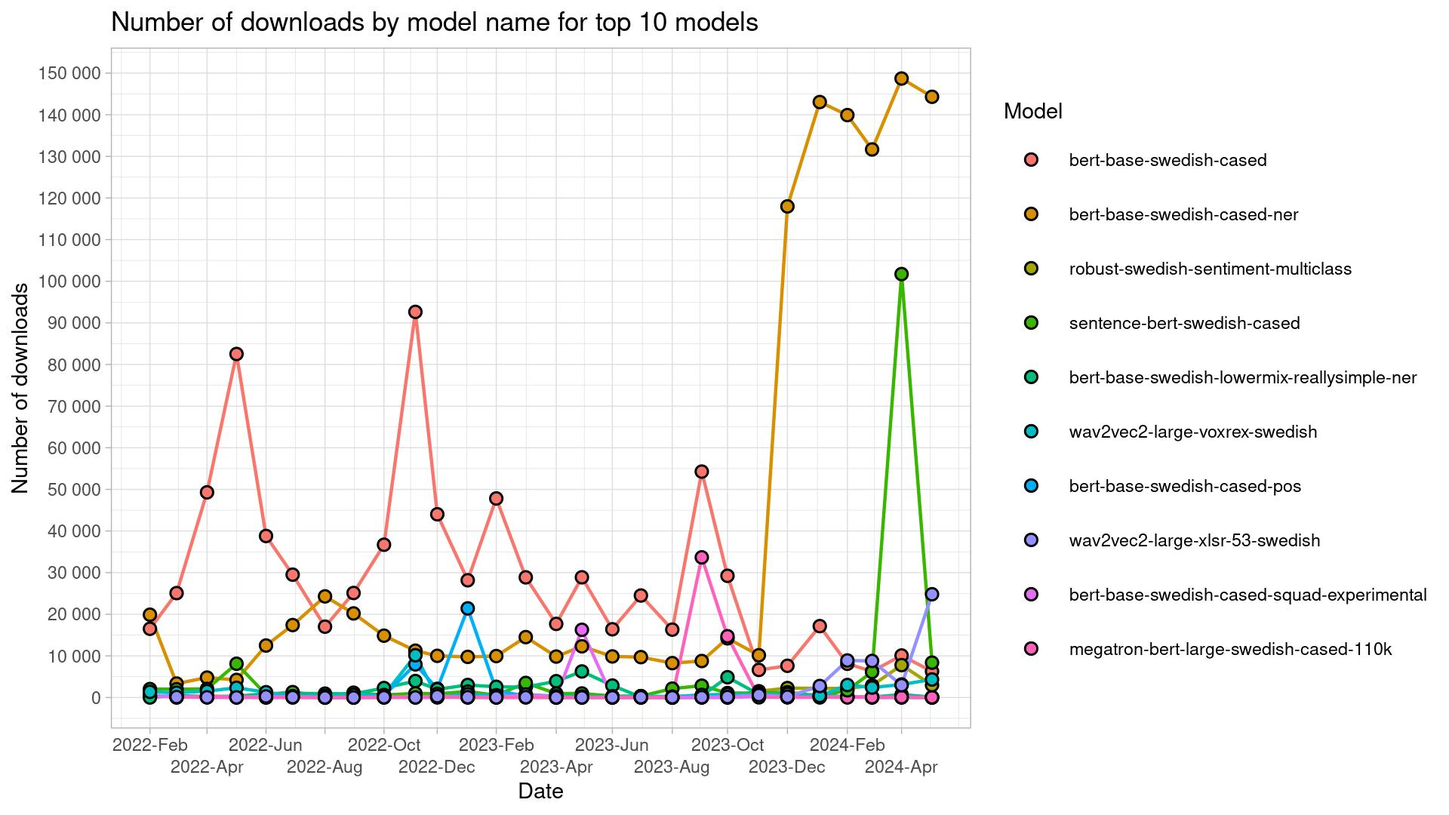
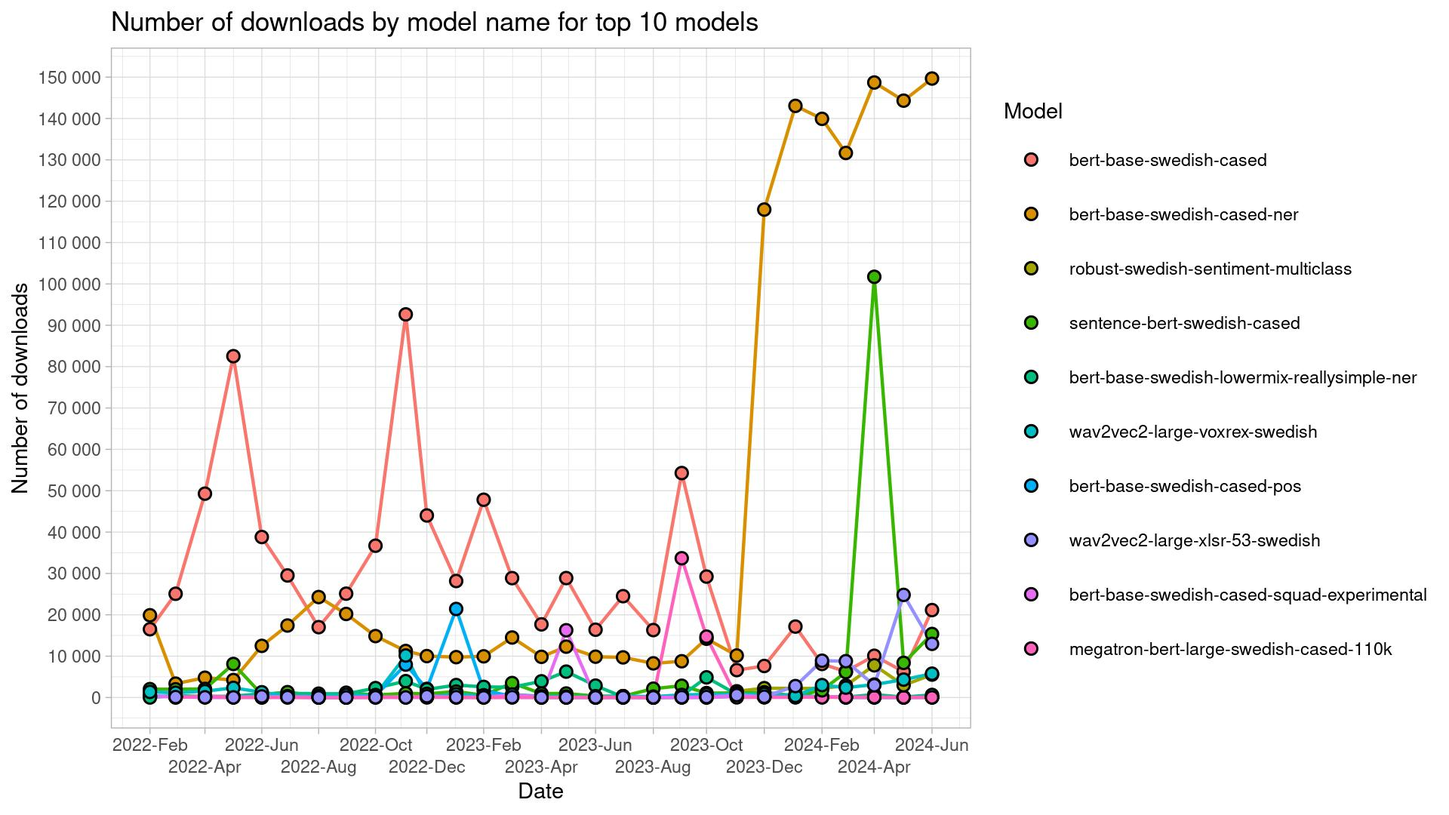
June 2024 update

diff --git a/README.md b/README.md
@@ -12,61 +12,61 @@ Script is run monthly, and a monthly `csv`-file outputted to `/data` folder.
 
 ## Table of downloads
 
-|model_name                                           | 2022-02| 2022-03| 2022-04| 2022-05| 2022-06| 2022-07| 2022-08| 2022-09| 2022-10| 2022-11| 2022-12| 2023-01| 2023-02| 2023-03| 2023-04| 2023-05| 2023-06| 2023-07| 2023-08| 2023-09| 2023-10| 2023-11| 2023-12| 2024-01| 2024-02| 2024-03| 2024-04| 2024-05|
-|:----------------------------------------------------|-------:|-------:|-------:|-------:|-------:|-------:|-------:|-------:|-------:|-------:|-------:|-------:|-------:|-------:|-------:|-------:|-------:|-------:|-------:|-------:|-------:|-------:|-------:|-------:|-------:|-------:|-------:|-------:|
-|albert-base-swedish-cased-alpha                      |     126|     252|      61|      52|      52|      28|      31|      17|      30|      64|     229|      37|      32|      75|      13|      17|      24|      39|      14|      18|       4|      71|      75|      74|      20|      27|     100|     220|
-|asr-voxrex-bart-base                                 |      11|      10|      19|       5|       2|       1|       1|       3|       2|       3|       2|       4|       9|      15|       7|       2|       4|       7|       4|       3|       8|       2|       5|       1|       6|       8|       5|       8|
-|bart-base-swedish-cased                              |      74|      12|     116|     126|      32|      18|      41|      56|      81|       6|       9|      18|      41|      70|     110|      60|      50|      40|      23|       9|      63|      44|      42|      11|     129|      14|     119|      14|
-|bert-base-swedish-cased                              |   16509|   25080|   49286|   82528|   38802|   29511|   17012|   25106|   36702|   92636|   44016|   28164|   47819|   28864|   17684|   28878|   16390|   24502|   16303|   54271|   29238|    6625|    7620|   17149|    8106|    6290|   10094|    6253|
-|bert-base-swedish-cased-alpha                        |      22|      24|    1362|      34|       8|      73|       7|      14|      14|      14|      10|     160|     151|       6|       9|       5|       6|       9|       2|      12|       3|       4|       5|       3|       5|      11|      15|       2|
-|bert-base-swedish-cased-ner                          |   19891|    3353|    4783|    4221|   12487|   17406|   24290|   20200|   14852|   11251|   10014|    9759|    9957|   14508|    9834|   12293|    9868|    9701|    8258|    8767|   14214|   10149|  117977|  143050|  139912|  131659|  148695|  144309|
-|bert-base-swedish-cased-neriob                       |       8|      87|      34|      25|       4|      44|       2|       1|      62|      10|       5|      31|       5|       8|       6|       6|       9|      18|       2|       1|       0|      19|       8|       5|       5|      11|      15|       3|
-|bert-base-swedish-cased-new                          |      NA|       0|     377|    1069|     786|      10|     238|      69|     225|     168|     163|      46|      44|     352|     303|      33|      52|      69|      73|     211|      96|      84|      30|      34|       5|      53|      59|     279|
-|bert-base-swedish-cased-pos                          |     428|     179|     107|     104|     168|     310|       2|       2|     467|    7959|    2083|   21410|    1713|     300|      15|      28|      58|      64|       9|      75|      28|     312|     159|     166|     239|      33|      20|      12|
-|bert-base-swedish-cased-reallysimple-ner             |       6|      32|       9|       7|      11|      10|       3|       8|      10|      17|       4|      16|     159|     401|     211|     334|     327|     326|      74|     152|     341|     304|     274|       3|       7|      14|      14|       4|
-|bert-base-swedish-cased-squad-experimental           |     323|     136|      45|      23|      40|     182|      25|      27|     101|      10|      22|      62|      56|     643|     130|   16262|      29|      29|       4|      16|      10|     280|      64|      34|     275|      30|      44|       4|
-|bert-base-swedish-lowermix-reallysimple-ner          |       6|     453|     248|     312|     901|     991|     930|     871|    2274|    3958|    1963|    3010|    2567|    2485|    3919|    6258|    2875|     121|      53|     417|    4874|     769|     327|     713|      81|     111|     696|     104|
-|electra-base-swedish-cased-discriminator             |     317|     143|     149|    1404|       2|       3|       3|       3|       2|       5|       0|       7|       2|       0|       6|       7|       4|       8|       0|       1|       0|       4|       0|       1|       4|       5|      15|       2|
-|electra-base-swedish-cased-generator                 |       9|      15|      26|      31|       2|      19|       1|      18|       1|       9|       4|      10|       4|      14|      88|      78|     107|      72|       3|      15|      39|      12|       7|      11|       8|      52|      53|       6|
-|electra-small-swedish-cased-discriminator            |      12|       5|    1467|    3804|      10|       5|       2|       2|       2|      10|       8|      12|     153|       1|       9|       2|       6|       4|      18|       6|       0|       3|       0|       7|      11|      13|       9|       4|
-|electra-small-swedish-cased-generator                |      NA|       3|     138|      14|       4|      19|       2|       3|       4|       8|       6|      11|       4|       3|       6|      14|       4|       9|       0|       1|       0|     131|       5|       3|       5|       9|      13|       2|
-|emotional-classification                             |      NA|      NA|      NA|      NA|      NA|      NA|      NA|      NA|      NA|      NA|      NA|      NA|      NA|      NA|      NA|      NA|      NA|     155|       3|       1|       2|      27|       9|       0|       0|      13|      63|       1|
-|megatron-bert-base-swedish-cased-125k                |      NA|       0|     353|       0|       2|       8|       1|       3|     131|      55|     158|      27|      21|      19|       7|       6|      10|      10|       4|       2|       0|       4|      29|      22|       5|       3|       4|      67|
-|megatron-bert-base-swedish-cased-600k                |      NA|      10|     288|      87|      30|      16|      16|      17|     111|      12|      20|     194|      27|      49|      13|      15|     100|      22|       2|       2|      15|      12|      41|      21|       5|      67|       6|      71|
-|megatron-bert-large-swedish-cased-110k               |      NA|       0|     346|      77|       4|       4|       0|       1|       1|     171|     160|      15|       8|      23|       4|       2|       4|       3|       0|   33671|   14716|      38|      63|     106|      29|      70|      79|      43|
-|megatron-bert-large-swedish-cased-165-zero-shot      |      NA|      NA|      NA|      NA|      NA|      NA|      NA|      NA|      NA|      NA|       5|      55|      26|      63|      20|     621|      69|     135|      58|     170|      48|     243|     123|      40|     127|     147|      56|     123|
-|megatron-bert-large-swedish-cased-165k               |      NA|      NA|       9|      13|      40|      19|      53|       2|      18|     336|     327|      21|      34|      67|      43|      56|      36|      52|      13|      86|      37|      12|     343|     153|      24|      18|      24|      15|
-|megatron.bert-base.bpe-32k-no_pretok.25k-steps       |      NA|      NA|      NA|      NA|      NA|      NA|      NA|      NA|      NA|      NA|      NA|      NA|      NA|      NA|      NA|      NA|      NA|      NA|      NA|      NA|      NA|      NA|      NA|      NA|      NA|      NA|      NA|       3|
-|megatron.bert-base.bpe-64k-no_pretok.25k-steps       |      NA|      NA|      NA|      NA|      NA|      NA|      NA|      NA|      NA|      NA|      NA|      NA|      NA|      NA|      NA|      NA|      NA|      NA|      NA|      NA|      NA|      NA|      NA|      NA|      NA|      NA|      NA|       3|
-|megatron.bert-base.spe-bpe-32k-no_pretok.25k-steps   |      NA|      NA|      NA|      NA|      NA|      NA|      NA|      NA|      NA|      NA|      NA|      NA|      NA|      NA|      NA|      NA|      NA|      NA|      NA|      NA|      NA|      NA|      NA|      NA|      NA|      NA|      NA|       3|
-|megatron.bert-base.spe-bpe-32k-pretok.25k-steps      |      NA|      NA|      NA|      NA|      NA|      NA|      NA|      NA|      NA|      NA|      NA|      NA|      NA|      NA|      NA|      NA|      NA|      NA|      NA|      NA|      NA|      NA|      NA|      NA|      NA|      NA|      NA|       3|
-|megatron.bert-base.spe-bpe-64k-no_pretok.25k-steps   |      NA|      NA|      NA|      NA|      NA|      NA|      NA|      NA|      NA|      NA|      NA|      NA|      NA|      NA|      NA|      NA|      NA|      NA|      NA|      NA|      NA|      NA|      NA|      NA|      NA|      NA|      NA|       3|
-|megatron.bert-base.spe-bpe-64k-pretok.25k-steps      |      NA|      NA|      NA|      NA|      NA|      NA|      NA|      NA|      NA|      NA|      NA|      NA|      NA|      NA|      NA|      NA|      NA|      NA|      NA|      NA|      NA|      NA|      NA|      NA|      NA|      NA|      NA|       3|
-|megatron.bert-base.unigram-32k-no_pretok.25k-steps   |      NA|      NA|      NA|      NA|      NA|      NA|      NA|      NA|      NA|      NA|      NA|      NA|      NA|      NA|      NA|      NA|      NA|      NA|      NA|      NA|      NA|      NA|      NA|      NA|      NA|      NA|      NA|       3|
-|megatron.bert-base.unigram-32k-pretok.25k-steps      |      NA|      NA|      NA|      NA|      NA|      NA|      NA|      NA|      NA|      NA|      NA|      NA|      NA|      NA|      NA|      NA|      NA|      NA|      NA|      NA|      NA|      NA|      NA|      NA|      NA|      NA|      NA|       3|
-|megatron.bert-base.unigram-64k-no_pretok.25k-steps   |      NA|      NA|      NA|      NA|      NA|      NA|      NA|      NA|      NA|      NA|      NA|      NA|      NA|      NA|      NA|      NA|      NA|      NA|      NA|      NA|      NA|      NA|      NA|      NA|      NA|      NA|      NA|       3|
-|megatron.bert-base.unigram-64k-pretok.25k-steps      |      NA|      NA|      NA|      NA|      NA|      NA|      NA|      NA|      NA|      NA|      NA|      NA|      NA|      NA|      NA|      NA|      NA|      NA|      NA|      NA|      NA|      NA|      NA|      NA|      NA|      NA|      NA|       3|
-|megatron.bert-base.wordpiece-32k-no_pretok.25k-steps |      NA|      NA|      NA|      NA|      NA|      NA|      NA|      NA|      NA|      NA|      NA|      NA|      NA|      NA|      NA|      NA|      NA|      NA|      NA|      NA|      NA|      NA|      NA|      NA|      NA|      NA|      NA|       3|
-|megatron.bert-base.wordpiece-32k-pretok.25k-steps    |      NA|      NA|      NA|      NA|      NA|      NA|      NA|      NA|      NA|      NA|      NA|      NA|      NA|      NA|      NA|      NA|      NA|      NA|      NA|      NA|      NA|      NA|      NA|      NA|      NA|      NA|      NA|       9|
-|megatron.bert-base.wordpiece-64k-no_pretok.25k-steps |      NA|      NA|      NA|      NA|      NA|      NA|      NA|      NA|      NA|      NA|      NA|      NA|      NA|      NA|      NA|      NA|      NA|      NA|      NA|      NA|      NA|      NA|      NA|      NA|      NA|      NA|      NA|       3|
-|megatron.bert-base.wordpiece-64k-pretok.25k-steps    |      NA|      NA|      NA|      NA|      NA|      NA|      NA|      NA|      NA|      NA|      NA|      NA|      NA|      NA|      NA|      NA|      NA|      NA|      NA|      NA|      NA|      NA|      NA|      NA|      NA|      NA|      NA|       3|
-|megatron.bert-large.bpe-64k-no_pretok.25k-steps      |      NA|      NA|      NA|      NA|      NA|      NA|      NA|      NA|      NA|      NA|      NA|      NA|      NA|      NA|      NA|      NA|      NA|      NA|      NA|      NA|      NA|      NA|      NA|      NA|      NA|      NA|      NA|       3|
-|megatron.bert-large.spe-bpe-32k-pretok.25k-steps     |      NA|      NA|      NA|      NA|      NA|      NA|      NA|      NA|      NA|      NA|      NA|      NA|      NA|      NA|      NA|      NA|      NA|      NA|      NA|      NA|      NA|      NA|      NA|      NA|      NA|      NA|      NA|       3|
-|megatron.bert-large.unigram-32k-pretok.25k-steps     |      NA|      NA|      NA|      NA|      NA|      NA|      NA|      NA|      NA|      NA|      NA|      NA|      NA|      NA|      NA|      NA|      NA|      NA|      NA|      NA|      NA|      NA|      NA|      NA|      NA|      NA|      NA|       3|
-|megatron.bert-large.unigram-64k-pretok.25k-steps     |      NA|      NA|      NA|      NA|      NA|      NA|      NA|      NA|      NA|      NA|      NA|      NA|      NA|      NA|      NA|      NA|      NA|      NA|      NA|      NA|      NA|      NA|      NA|      NA|      NA|      NA|      NA|       3|
-|megatron.bert-large.unigram-64k-pretok.500k-steps    |      NA|      NA|      NA|      NA|      NA|      NA|      NA|      NA|      NA|      NA|      NA|      NA|      NA|      NA|      NA|      NA|      NA|      NA|      NA|      NA|      NA|      NA|      NA|      NA|      NA|     310|      11|       1|
-|megatron.bert-large.wordpiece-32k-pretok.25k-steps   |      NA|      NA|      NA|      NA|      NA|      NA|      NA|      NA|      NA|      NA|      NA|      NA|      NA|      NA|      NA|      NA|      NA|      NA|      NA|      NA|      NA|      NA|      NA|      NA|      NA|      NA|      NA|       3|
-|megatron.bert-large.wordpiece-64k-pretok.25k-steps   |      NA|      NA|      NA|      NA|      NA|      NA|      NA|      NA|      NA|      NA|      NA|      NA|      NA|      NA|      NA|      NA|      NA|      NA|      NA|      NA|      NA|      NA|      NA|      NA|      NA|      NA|      NA|       9|
-|piper-tts-nst-swedish                                |      NA|      NA|      NA|      NA|      NA|      NA|      NA|      NA|      NA|      NA|      NA|      NA|      NA|      NA|      NA|       1|       8|       3|       0|       0|       0|       1|       0|       0|       0|       3|       7|      11|
-|roberta-base-swedish-cased                           |       7|       7|     471|       8|      78|       5|      67|       2|       0|       5|       5|      37|     150|       3|       6|     204|      10|       9|       1|       2|       2|       2|       3|       3|      30|      15|       9|       3|
-|robust-swedish-sentiment-multiclass                  |      NA|      NA|      NA|      NA|      NA|      NA|      NA|      NA|      NA|      NA|      NA|      NA|      NA|      NA|      NA|      NA|      12|     296|       8|      58|     119|    1505|    2263|    2206|    2178|    2895|    7783|    2968|
-|sentence-bert-swedish-cased                          |    2033|    1988|    2079|    8110|     721|    1299|     304|    1157|     597|    1008|     887|    1441|     546|    3499|     955|     970|     327|     328|    2135|    2841|    1071|    1067|    1258|     383|    1733|    6143|  101722|    8376|
-|swedish-spacy-pipeline                               |      65|      22|       5|       2|       5|       9|       1|       2|       0|       1|       3|       4|       6|      90|       3|       1|       0|       1|       3|       9|       5|       5|       5|       3|      56|       5|       4|       2|
-|wav2vec2-base-voxpopuli-sv-swedish                   |      NA|      21|      19|       7|       1|      NA|       1|       5|      99|       6|       2|      13|      57|      12|      56|       4|      26|       9|       0|       1|       7|       4|       2|     113|       5|       6|      12|       4|
-|wav2vec2-large-voxpopuli-sv-swedish                  |      58|      32|      73|      57|      24|       5|       5|      11|      59|      15|       7|      23|       9|      10|      13|      10|       7|      14|       4|       1|       5|      26|       2|       3|      12|     117|      14|      13|
-|wav2vec2-large-voxrex                                |     780|     609|     996|      57|     102|      55|      13|      34|      74|       4|       0|      56|      17|      11|       8|      17|       4|      15|       2|       1|      13|       6|       3|       1|      12|      10|      10|      20|
-|wav2vec2-large-voxrex-swedish                        |    1356|    1151|    1534|    2331|    1277|     334|     361|     611|     531|   10157|     146|     770|     411|     732|     290|     225|      65|     330|     217|     624|     752|     769|     829|     392|    3000|    2389|    3129|    4330|
-|wav2vec2-large-xlsr-53-swedish                       |      NA|     112|      55|      32|     259|      91|      19|       9|      61|      26|     307|      71|      32|      76|      26|      31|      45|      65|      50|      77|     126|     586|     188|    2766|    8897|    8785|    2962|   24811|
-|whisper-large-rixvox                                 |      NA|      NA|      NA|      NA|      NA|      NA|      NA|      NA|      NA|      NA|      NA|      NA|      NA|     113|      56|       8|       9|      12|       9|       6|       0|      16|       0|       2|      19|      38|      18|      12|
-|whisper-small-rixvox                                 |      NA|      NA|      NA|      NA|      NA|      NA|      NA|      NA|      NA|      NA|      NA|      NA|      NA|       3|       1|       6|       2|       7|       0|       0|       0|       1|       0|       0|       0|      13|       2|       1|
-|whisper-tiny-rixvox                                  |      NA|      NA|      NA|      NA|      NA|      NA|      NA|      NA|      NA|      NA|      NA|      NA|      NA|       9|       1|       5|       4|       7|       3|       0|       0|       1|       0|       0|       2|      12|       6|       1|
+|model_name                                           | 2022-02| 2022-03| 2022-04| 2022-05| 2022-06| 2022-07| 2022-08| 2022-09| 2022-10| 2022-11| 2022-12| 2023-01| 2023-02| 2023-03| 2023-04| 2023-05| 2023-06| 2023-07| 2023-08| 2023-09| 2023-10| 2023-11| 2023-12| 2024-01| 2024-02| 2024-03| 2024-04| 2024-05| 2024-06|
+|:----------------------------------------------------|-------:|-------:|-------:|-------:|-------:|-------:|-------:|-------:|-------:|-------:|-------:|-------:|-------:|-------:|-------:|-------:|-------:|-------:|-------:|-------:|-------:|-------:|-------:|-------:|-------:|-------:|-------:|-------:|-------:|
+|albert-base-swedish-cased-alpha                      |     126|     252|      61|      52|      52|      28|      31|      17|      30|      64|     229|      37|      32|      75|      13|      17|      24|      39|      14|      18|       4|      71|      75|      74|      20|      27|     100|     220|      31|
+|asr-voxrex-bart-base                                 |      11|      10|      19|       5|       2|       1|       1|       3|       2|       3|       2|       4|       9|      15|       7|       2|       4|       7|       4|       3|       8|       2|       5|       1|       6|       8|       5|       8|       8|
+|bart-base-swedish-cased                              |      74|      12|     116|     126|      32|      18|      41|      56|      81|       6|       9|      18|      41|      70|     110|      60|      50|      40|      23|       9|      63|      44|      42|      11|     129|      14|     119|      14|      56|
+|bert-base-swedish-cased                              |   16509|   25080|   49286|   82528|   38802|   29511|   17012|   25106|   36702|   92636|   44016|   28164|   47819|   28864|   17684|   28878|   16390|   24502|   16303|   54271|   29238|    6625|    7620|   17149|    8106|    6290|   10094|    6253|   21139|
+|bert-base-swedish-cased-alpha                        |      22|      24|    1362|      34|       8|      73|       7|      14|      14|      14|      10|     160|     151|       6|       9|       5|       6|       9|       2|      12|       3|       4|       5|       3|       5|      11|      15|       2|       9|
+|bert-base-swedish-cased-ner                          |   19891|    3353|    4783|    4221|   12487|   17406|   24290|   20200|   14852|   11251|   10014|    9759|    9957|   14508|    9834|   12293|    9868|    9701|    8258|    8767|   14214|   10149|  117977|  143050|  139912|  131659|  148695|  144309|  149658|
+|bert-base-swedish-cased-neriob                       |       8|      87|      34|      25|       4|      44|       2|       1|      62|      10|       5|      31|       5|       8|       6|       6|       9|      18|       2|       1|       0|      19|       8|       5|       5|      11|      15|       3|      22|
+|bert-base-swedish-cased-new                          |      NA|       0|     377|    1069|     786|      10|     238|      69|     225|     168|     163|      46|      44|     352|     303|      33|      52|      69|      73|     211|      96|      84|      30|      34|       5|      53|      59|     279|      76|
+|bert-base-swedish-cased-pos                          |     428|     179|     107|     104|     168|     310|       2|       2|     467|    7959|    2083|   21410|    1713|     300|      15|      28|      58|      64|       9|      75|      28|     312|     159|     166|     239|      33|      20|      12|      80|
+|bert-base-swedish-cased-reallysimple-ner             |       6|      32|       9|       7|      11|      10|       3|       8|      10|      17|       4|      16|     159|     401|     211|     334|     327|     326|      74|     152|     341|     304|     274|       3|       7|      14|      14|       4|      12|
+|bert-base-swedish-cased-squad-experimental           |     323|     136|      45|      23|      40|     182|      25|      27|     101|      10|      22|      62|      56|     643|     130|   16262|      29|      29|       4|      16|      10|     280|      64|      34|     275|      30|      44|       4|      13|
+|bert-base-swedish-lowermix-reallysimple-ner          |       6|     453|     248|     312|     901|     991|     930|     871|    2274|    3958|    1963|    3010|    2567|    2485|    3919|    6258|    2875|     121|      53|     417|    4874|     769|     327|     713|      81|     111|     696|     104|     623|
+|electra-base-swedish-cased-discriminator             |     317|     143|     149|    1404|       2|       3|       3|       3|       2|       5|       0|       7|       2|       0|       6|       7|       4|       8|       0|       1|       0|       4|       0|       1|       4|       5|      15|       2|       5|
+|electra-base-swedish-cased-generator                 |       9|      15|      26|      31|       2|      19|       1|      18|       1|       9|       4|      10|       4|      14|      88|      78|     107|      72|       3|      15|      39|      12|       7|      11|       8|      52|      53|       6|      27|
+|electra-small-swedish-cased-discriminator            |      12|       5|    1467|    3804|      10|       5|       2|       2|       2|      10|       8|      12|     153|       1|       9|       2|       6|       4|      18|       6|       0|       3|       0|       7|      11|      13|       9|       4|       9|
+|electra-small-swedish-cased-generator                |      NA|       3|     138|      14|       4|      19|       2|       3|       4|       8|       6|      11|       4|       3|       6|      14|       4|       9|       0|       1|       0|     131|       5|       3|       5|       9|      13|       2|      10|
+|emotional-classification                             |      NA|      NA|      NA|      NA|      NA|      NA|      NA|      NA|      NA|      NA|      NA|      NA|      NA|      NA|      NA|      NA|      NA|     155|       3|       1|       2|      27|       9|       0|       0|      13|      63|       1|       8|
+|megatron-bert-base-swedish-cased-125k                |      NA|       0|     353|       0|       2|       8|       1|       3|     131|      55|     158|      27|      21|      19|       7|       6|      10|      10|       4|       2|       0|       4|      29|      22|       5|       3|       4|      67|       8|
+|megatron-bert-base-swedish-cased-600k                |      NA|      10|     288|      87|      30|      16|      16|      17|     111|      12|      20|     194|      27|      49|      13|      15|     100|      22|       2|       2|      15|      12|      41|      21|       5|      67|       6|      71|      30|
+|megatron-bert-large-swedish-cased-110k               |      NA|       0|     346|      77|       4|       4|       0|       1|       1|     171|     160|      15|       8|      23|       4|       2|       4|       3|       0|   33671|   14716|      38|      63|     106|      29|      70|      79|      43|      31|
+|megatron-bert-large-swedish-cased-165-zero-shot      |      NA|      NA|      NA|      NA|      NA|      NA|      NA|      NA|      NA|      NA|       5|      55|      26|      63|      20|     621|      69|     135|      58|     170|      48|     243|     123|      40|     127|     147|      56|     123|     119|
+|megatron-bert-large-swedish-cased-165k               |      NA|      NA|       9|      13|      40|      19|      53|       2|      18|     336|     327|      21|      34|      67|      43|      56|      36|      52|      13|      86|      37|      12|     343|     153|      24|      18|      24|      15|      15|
+|megatron.bert-base.bpe-32k-no_pretok.25k-steps       |      NA|      NA|      NA|      NA|      NA|      NA|      NA|      NA|      NA|      NA|      NA|      NA|      NA|      NA|      NA|      NA|      NA|      NA|      NA|      NA|      NA|      NA|      NA|      NA|      NA|      NA|      NA|       3|       2|
+|megatron.bert-base.bpe-64k-no_pretok.25k-steps       |      NA|      NA|      NA|      NA|      NA|      NA|      NA|      NA|      NA|      NA|      NA|      NA|      NA|      NA|      NA|      NA|      NA|      NA|      NA|      NA|      NA|      NA|      NA|      NA|      NA|      NA|      NA|       3|       3|
+|megatron.bert-base.spe-bpe-32k-no_pretok.25k-steps   |      NA|      NA|      NA|      NA|      NA|      NA|      NA|      NA|      NA|      NA|      NA|      NA|      NA|      NA|      NA|      NA|      NA|      NA|      NA|      NA|      NA|      NA|      NA|      NA|      NA|      NA|      NA|       3|       3|
+|megatron.bert-base.spe-bpe-32k-pretok.25k-steps      |      NA|      NA|      NA|      NA|      NA|      NA|      NA|      NA|      NA|      NA|      NA|      NA|      NA|      NA|      NA|      NA|      NA|      NA|      NA|      NA|      NA|      NA|      NA|      NA|      NA|      NA|      NA|       3|       3|
+|megatron.bert-base.spe-bpe-64k-no_pretok.25k-steps   |      NA|      NA|      NA|      NA|      NA|      NA|      NA|      NA|      NA|      NA|      NA|      NA|      NA|      NA|      NA|      NA|      NA|      NA|      NA|      NA|      NA|      NA|      NA|      NA|      NA|      NA|      NA|       3|       3|
+|megatron.bert-base.spe-bpe-64k-pretok.25k-steps      |      NA|      NA|      NA|      NA|      NA|      NA|      NA|      NA|      NA|      NA|      NA|      NA|      NA|      NA|      NA|      NA|      NA|      NA|      NA|      NA|      NA|      NA|      NA|      NA|      NA|      NA|      NA|       3|       3|
+|megatron.bert-base.unigram-32k-no_pretok.25k-steps   |      NA|      NA|      NA|      NA|      NA|      NA|      NA|      NA|      NA|      NA|      NA|      NA|      NA|      NA|      NA|      NA|      NA|      NA|      NA|      NA|      NA|      NA|      NA|      NA|      NA|      NA|      NA|       3|       3|
+|megatron.bert-base.unigram-32k-pretok.25k-steps      |      NA|      NA|      NA|      NA|      NA|      NA|      NA|      NA|      NA|      NA|      NA|      NA|      NA|      NA|      NA|      NA|      NA|      NA|      NA|      NA|      NA|      NA|      NA|      NA|      NA|      NA|      NA|       3|       3|
+|megatron.bert-base.unigram-64k-no_pretok.25k-steps   |      NA|      NA|      NA|      NA|      NA|      NA|      NA|      NA|      NA|      NA|      NA|      NA|      NA|      NA|      NA|      NA|      NA|      NA|      NA|      NA|      NA|      NA|      NA|      NA|      NA|      NA|      NA|       3|       3|
+|megatron.bert-base.unigram-64k-pretok.25k-steps      |      NA|      NA|      NA|      NA|      NA|      NA|      NA|      NA|      NA|      NA|      NA|      NA|      NA|      NA|      NA|      NA|      NA|      NA|      NA|      NA|      NA|      NA|      NA|      NA|      NA|      NA|      NA|       3|       4|
+|megatron.bert-base.wordpiece-32k-no_pretok.25k-steps |      NA|      NA|      NA|      NA|      NA|      NA|      NA|      NA|      NA|      NA|      NA|      NA|      NA|      NA|      NA|      NA|      NA|      NA|      NA|      NA|      NA|      NA|      NA|      NA|      NA|      NA|      NA|       3|       3|
+|megatron.bert-base.wordpiece-32k-pretok.25k-steps    |      NA|      NA|      NA|      NA|      NA|      NA|      NA|      NA|      NA|      NA|      NA|      NA|      NA|      NA|      NA|      NA|      NA|      NA|      NA|      NA|      NA|      NA|      NA|      NA|      NA|      NA|      NA|       9|       3|
+|megatron.bert-base.wordpiece-64k-no_pretok.25k-steps |      NA|      NA|      NA|      NA|      NA|      NA|      NA|      NA|      NA|      NA|      NA|      NA|      NA|      NA|      NA|      NA|      NA|      NA|      NA|      NA|      NA|      NA|      NA|      NA|      NA|      NA|      NA|       3|       3|
+|megatron.bert-base.wordpiece-64k-pretok.25k-steps    |      NA|      NA|      NA|      NA|      NA|      NA|      NA|      NA|      NA|      NA|      NA|      NA|      NA|      NA|      NA|      NA|      NA|      NA|      NA|      NA|      NA|      NA|      NA|      NA|      NA|      NA|      NA|       3|       3|
+|megatron.bert-large.bpe-64k-no_pretok.25k-steps      |      NA|      NA|      NA|      NA|      NA|      NA|      NA|      NA|      NA|      NA|      NA|      NA|      NA|      NA|      NA|      NA|      NA|      NA|      NA|      NA|      NA|      NA|      NA|      NA|      NA|      NA|      NA|       3|       3|
+|megatron.bert-large.spe-bpe-32k-pretok.25k-steps     |      NA|      NA|      NA|      NA|      NA|      NA|      NA|      NA|      NA|      NA|      NA|      NA|      NA|      NA|      NA|      NA|      NA|      NA|      NA|      NA|      NA|      NA|      NA|      NA|      NA|      NA|      NA|       3|       3|
+|megatron.bert-large.unigram-32k-pretok.25k-steps     |      NA|      NA|      NA|      NA|      NA|      NA|      NA|      NA|      NA|      NA|      NA|      NA|      NA|      NA|      NA|      NA|      NA|      NA|      NA|      NA|      NA|      NA|      NA|      NA|      NA|      NA|      NA|       3|       3|
+|megatron.bert-large.unigram-64k-pretok.25k-steps     |      NA|      NA|      NA|      NA|      NA|      NA|      NA|      NA|      NA|      NA|      NA|      NA|      NA|      NA|      NA|      NA|      NA|      NA|      NA|      NA|      NA|      NA|      NA|      NA|      NA|      NA|      NA|       3|       3|
+|megatron.bert-large.unigram-64k-pretok.500k-steps    |      NA|      NA|      NA|      NA|      NA|      NA|      NA|      NA|      NA|      NA|      NA|      NA|      NA|      NA|      NA|      NA|      NA|      NA|      NA|      NA|      NA|      NA|      NA|      NA|      NA|     310|      11|       1|       1|
+|megatron.bert-large.wordpiece-32k-pretok.25k-steps   |      NA|      NA|      NA|      NA|      NA|      NA|      NA|      NA|      NA|      NA|      NA|      NA|      NA|      NA|      NA|      NA|      NA|      NA|      NA|      NA|      NA|      NA|      NA|      NA|      NA|      NA|      NA|       3|       3|
+|megatron.bert-large.wordpiece-64k-pretok.25k-steps   |      NA|      NA|      NA|      NA|      NA|      NA|      NA|      NA|      NA|      NA|      NA|      NA|      NA|      NA|      NA|      NA|      NA|      NA|      NA|      NA|      NA|      NA|      NA|      NA|      NA|      NA|      NA|       9|       4|
+|piper-tts-nst-swedish                                |      NA|      NA|      NA|      NA|      NA|      NA|      NA|      NA|      NA|      NA|      NA|      NA|      NA|      NA|      NA|       1|       8|       3|       0|       0|       0|       1|       0|       0|       0|       3|       7|      11|       3|
+|roberta-base-swedish-cased                           |       7|       7|     471|       8|      78|       5|      67|       2|       0|       5|       5|      37|     150|       3|       6|     204|      10|       9|       1|       2|       2|       2|       3|       3|      30|      15|       9|       3|      10|
+|robust-swedish-sentiment-multiclass                  |      NA|      NA|      NA|      NA|      NA|      NA|      NA|      NA|      NA|      NA|      NA|      NA|      NA|      NA|      NA|      NA|      12|     296|       8|      58|     119|    1505|    2263|    2206|    2178|    2895|    7783|    2968|    5544|
+|sentence-bert-swedish-cased                          |    2033|    1988|    2079|    8110|     721|    1299|     304|    1157|     597|    1008|     887|    1441|     546|    3499|     955|     970|     327|     328|    2135|    2841|    1071|    1067|    1258|     383|    1733|    6143|  101722|    8376|   15360|
+|swedish-spacy-pipeline                               |      65|      22|       5|       2|       5|       9|       1|       2|       0|       1|       3|       4|       6|      90|       3|       1|       0|       1|       3|       9|       5|       5|       5|       3|      56|       5|       4|       2|       2|
+|wav2vec2-base-voxpopuli-sv-swedish                   |      NA|      21|      19|       7|       1|      NA|       1|       5|      99|       6|       2|      13|      57|      12|      56|       4|      26|       9|       0|       1|       7|       4|       2|     113|       5|       6|      12|       4|       9|
+|wav2vec2-large-voxpopuli-sv-swedish                  |      58|      32|      73|      57|      24|       5|       5|      11|      59|      15|       7|      23|       9|      10|      13|      10|       7|      14|       4|       1|       5|      26|       2|       3|      12|     117|      14|      13|       2|
+|wav2vec2-large-voxrex                                |     780|     609|     996|      57|     102|      55|      13|      34|      74|       4|       0|      56|      17|      11|       8|      17|       4|      15|       2|       1|      13|       6|       3|       1|      12|      10|      10|      20|      18|
+|wav2vec2-large-voxrex-swedish                        |    1356|    1151|    1534|    2331|    1277|     334|     361|     611|     531|   10157|     146|     770|     411|     732|     290|     225|      65|     330|     217|     624|     752|     769|     829|     392|    3000|    2389|    3129|    4330|    5762|
+|wav2vec2-large-xlsr-53-swedish                       |      NA|     112|      55|      32|     259|      91|      19|       9|      61|      26|     307|      71|      32|      76|      26|      31|      45|      65|      50|      77|     126|     586|     188|    2766|    8897|    8785|    2962|   24811|   12976|
+|whisper-large-rixvox                                 |      NA|      NA|      NA|      NA|      NA|      NA|      NA|      NA|      NA|      NA|      NA|      NA|      NA|     113|      56|       8|       9|      12|       9|       6|       0|      16|       0|       2|      19|      38|      18|      12|      11|
+|whisper-small-rixvox                                 |      NA|      NA|      NA|      NA|      NA|      NA|      NA|      NA|      NA|      NA|      NA|      NA|      NA|       3|       1|       6|       2|       7|       0|       0|       0|       1|       0|       0|       0|      13|       2|       1|       7|
+|whisper-tiny-rixvox                                  |      NA|      NA|      NA|      NA|      NA|      NA|      NA|      NA|      NA|      NA|      NA|      NA|      NA|       9|       1|       5|       4|       7|       3|       0|       0|       1|       0|       0|       2|      12|       6|       1|       7|
